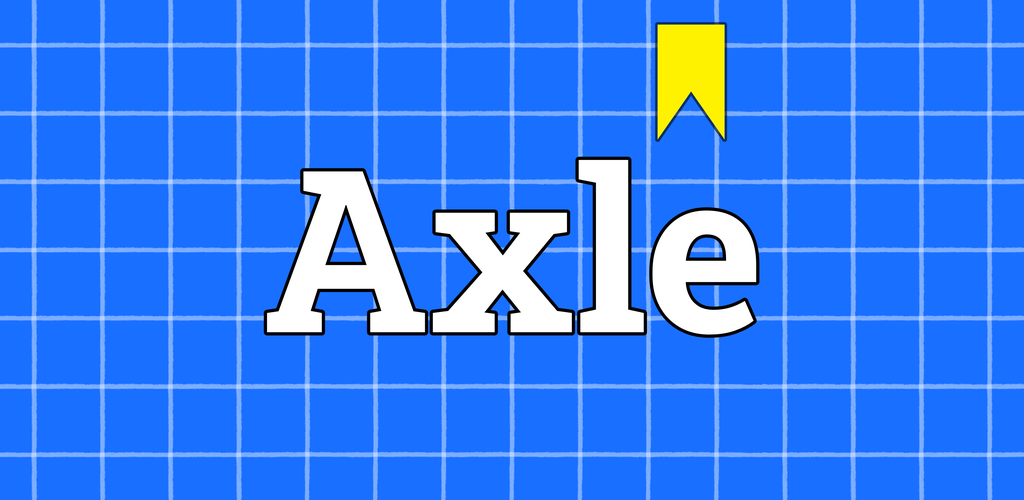
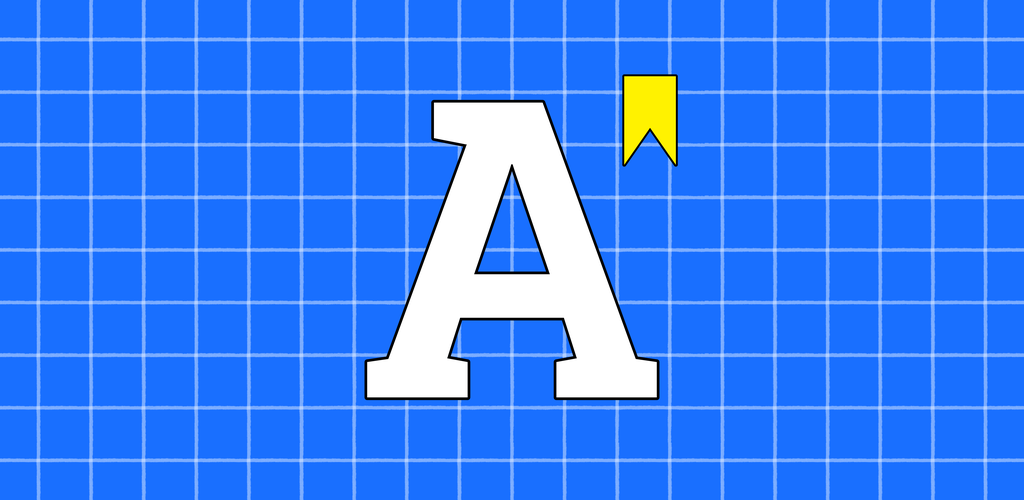
«A»-merket som hovedlogo, med «Axle» i appens skrift ved siden av der navnet trengs
- Ny lockup i brand/: «A»-flisen + «Axle» i Bricolage Grotesque (mørk og lys tekst)
- Splash (lys og mørk) og delingsbildet bruker lockupen i stedet for ordmerket inne i flisen
- Google Play-grafikken viser «A»-merket med luft rundt
- Velkomstsiden og språkvalget bruker «A»-merket (logo-192.png)
- Ordmerket i flisen brukes bare som kilde for rutenettet

Claude-Session: https://claude.ai/code/session_01AHmUojHwgwgYXn9tD1QxMU

diff --git a/challenge.js b/challenge.js
@@ -66,7 +66,7 @@ function bootPrompts(){
 // Tospråklig, siden vi ennå ikke vet hvilket språk personen leser.
 function langPickHTML(){
   return `<div class="dialog pop langpick" role="dialog" aria-label="Velg språk / Choose language">
-    ${PLATFORM === "claude" ? `<div class="lp-ic" aria-hidden="true">🌍</div>` : `<img class="lp-logo" src="icons/logo-192.png" width="96" height="96" alt="Axle">`}<h3>Velg språk<br><small>Choose language</small></h3>
+    ${PLATFORM === "claude" ? `<div class="lp-ic" aria-hidden="true">🌍</div>` : `<img class="lp-logo" src="icons/logo-192.png" width="72" height="72" alt="Axle">`}<h3>Velg språk<br><small>Choose language</small></h3>
     <button class="lp-btn" data-a="langpick" data-l="nb"><span class="lp-flag" aria-hidden="true">🇳🇴</span><span><b>Norsk</b><small>Bokmål</small></span></button>
     <button class="lp-btn" data-a="langpick" data-l="en"><span class="lp-flag" aria-hidden="true">🇬🇧</span><span><b>English</b><small>All courses and theory in English</small></span></button>
     <p class="lp-note">Kan endres i Innstillinger · Can be changed in Settings</p></div>`;

diff --git a/styles.css b/styles.css
@@ -1258,7 +1258,7 @@ a.srow{text-decoration:none;color:inherit}
 .langpick{text-align:center}
 .langpick h3{margin:4px 0 14px;line-height:1.2}.langpick h3 small{font-size:15px;color:var(--muted);font-weight:600}
 .lp-ic{font-size:40px;line-height:1}
-.lp-logo{display:block;width:96px;height:96px;margin:0 auto 4px}
+.lp-logo{display:block;width:72px;height:72px;margin:0 auto 4px}
 .lp-btn{display:flex;align-items:center;gap:14px;width:100%;text-align:left;font:inherit;padding:14px 16px;margin-bottom:10px;border-radius:16px;border:2px solid var(--line);border-bottom-width:4px;background:var(--card);color:var(--ink);cursor:pointer}
 .lp-btn:hover{border-color:var(--accent)}
 .lp-btn b{display:block;font-size:17px}.lp-btn small{color:var(--muted);font-size:13px}

diff --git a/tools/make_logo.py b/tools/make_logo.py
@@ -1,8 +1,10 @@
 #!/usr/bin/env python3
 """Lager alle ikon-, splash- og butikkbildene for Axle fra de to logoene i brand/.
 
-  brand/axle-logo-a.png  – «A»-merket (app-ikon, favicon, PWA, butikkikon)
-  brand/axle-logo.png    – «Axle»-ordmerket (splash, delingsbilde, språkvalget i appen)
+  brand/axle-logo-a.png        – «A»-merket: hovedmerket, brukes overalt (ikoner, favicon, i appen)
+  brand/axle-lockup(-light).png – «A»-merket med «Axle» i Bricolage Grotesque ved siden av (splash, delingsbilde),
+                                  mørk tekst for lys bakgrunn og lys tekst for mørk
+  brand/axle-logo.png          – «Axle» inne i flisen; brukes bare som kilde for rutenettet (navnet blir for trangt i flisen)
 
 Begge er flisene slik de er tegnet: blått rutenett, gult bokmerke, sort kant og avrundede hjørner.
 Der et ikon må fylle hele flaten (iOS, Android, maskable), klippes kanten bort og rutenettet
@@ -22,6 +24,7 @@ CELL = (522, 1622)   # øvre venstre hjørne av en tom rute i ordmerket (linjene
 
 def src(name): return Image.open(os.path.join(ROOT, "brand", name)).convert("RGBA")
 A, WORD = src("axle-logo-a.png"), src("axle-logo.png")
+LOCK, LOCK_L = src("axle-lockup.png"), src("axle-lockup-light.png")
 
 def grid(w, h, x0, y0):
     """Tomt rutenett i kildeoppløsning, med en linje i (x0, y0)."""
@@ -49,6 +52,11 @@ def centered(bg, tile, size, canvas):
     out.alpha_composite(tile.resize((size, size), Image.LANCZOS), ((canvas[0] - size) // 2, (canvas[1] - size) // 2))
     return out
 
+def lockup(bg, lk, width, canvas):
+    out = Image.new("RGBA", canvas, bg + (255,)); h = round(lk.height * width / lk.width)
+    out.alpha_composite(lk.resize((width, h), Image.LANCZOS), ((canvas[0] - width) // 2, (canvas[1] - h) // 2))
+    return out
+
 def save(im, *parts, size=None, rgb=False):
     if size: im = im.resize(size if isinstance(size, tuple) else (size, size), Image.LANCZOS)
     if rgb: im = im.convert("RGB")
@@ -64,20 +72,20 @@ print("Axle-logo:")
 save(APP, "assets", "icon-only.png", size=1024, rgb=True)
 save(ADAPTIVE, "assets", "icon-foreground.png", size=1024, rgb=True)
 save(grid(2161, 2161, LINE0, LINE0), "assets", "icon-background.png", size=1024, rgb=True)
-for name, col in (("splash.png", PAPER), ("splash-dark.png", PAPER_DARK)):
-    save(centered(col, WORD, 640, (2732, 2732)), "assets", name, rgb=True)
+for name, col, lk in (("splash.png", PAPER, LOCK), ("splash-dark.png", PAPER_DARK, LOCK_L)):
+    save(lockup(col, lk, 1000, (2732, 2732)), "assets", name, rgb=True)
 
 # Butikkene
 save(APP, "store", "app-store-icon-1024.png", size=1024, rgb=True)
 save(APP, "store", "play-icon-512.png", size=512, rgb=True)
-# 1024 × 500: ordmerket med rutenettet forlenget til sidene (2017 × 2017 kjerne → 4131 × 2017)
-save(extend(WORD, 1057, 0, 1057, 0), "store", "play-feature-graphic-1024x500.png", size=(1024, 500), rgb=True)
+# 1024 × 500: «A»-merket med rutenettet forlenget rundt (2017 × 2017 kjerne → 5359 × 2617)
+save(extend(A, 1671, 300, 1671, 300), "store", "play-feature-graphic-1024x500.png", size=(1024, 500), rgb=True)  # luft rundt merket
 
 # Nett / PWA
 for s in (48, 192, 512): save(A, "web", "icons", "icon-%d.png" % s, size=s)   # flisen med runde hjørner
 save(MASKABLE, "web", "icons", "icon-maskable-512.png", size=512, rgb=True)
 save(APP, "web", "icons", "apple-touch-icon.png", size=180, rgb=True)
-save(WORD, "web", "icons", "logo-192.png", size=192)                          # språkvalget i appen
-save(centered(PAPER, WORD, 520, (1200, 630)), "web", "icons", "og-image.png", rgb=True)  # delingsbilde
+save(A, "web", "icons", "logo-192.png", size=192)                             # merket i appen (velkomst, språkvalg)
+save(lockup(PAPER, LOCK, 820, (1200, 630)), "web", "icons", "og-image.png", rgb=True)  # delingsbilde
 A.resize((256, 256), Image.LANCZOS).save(os.path.join(ROOT, "web", "favicon.ico"), sizes=[(16, 16), (32, 32), (48, 48)])
 print("   web/favicon.ico 16/32/48")
